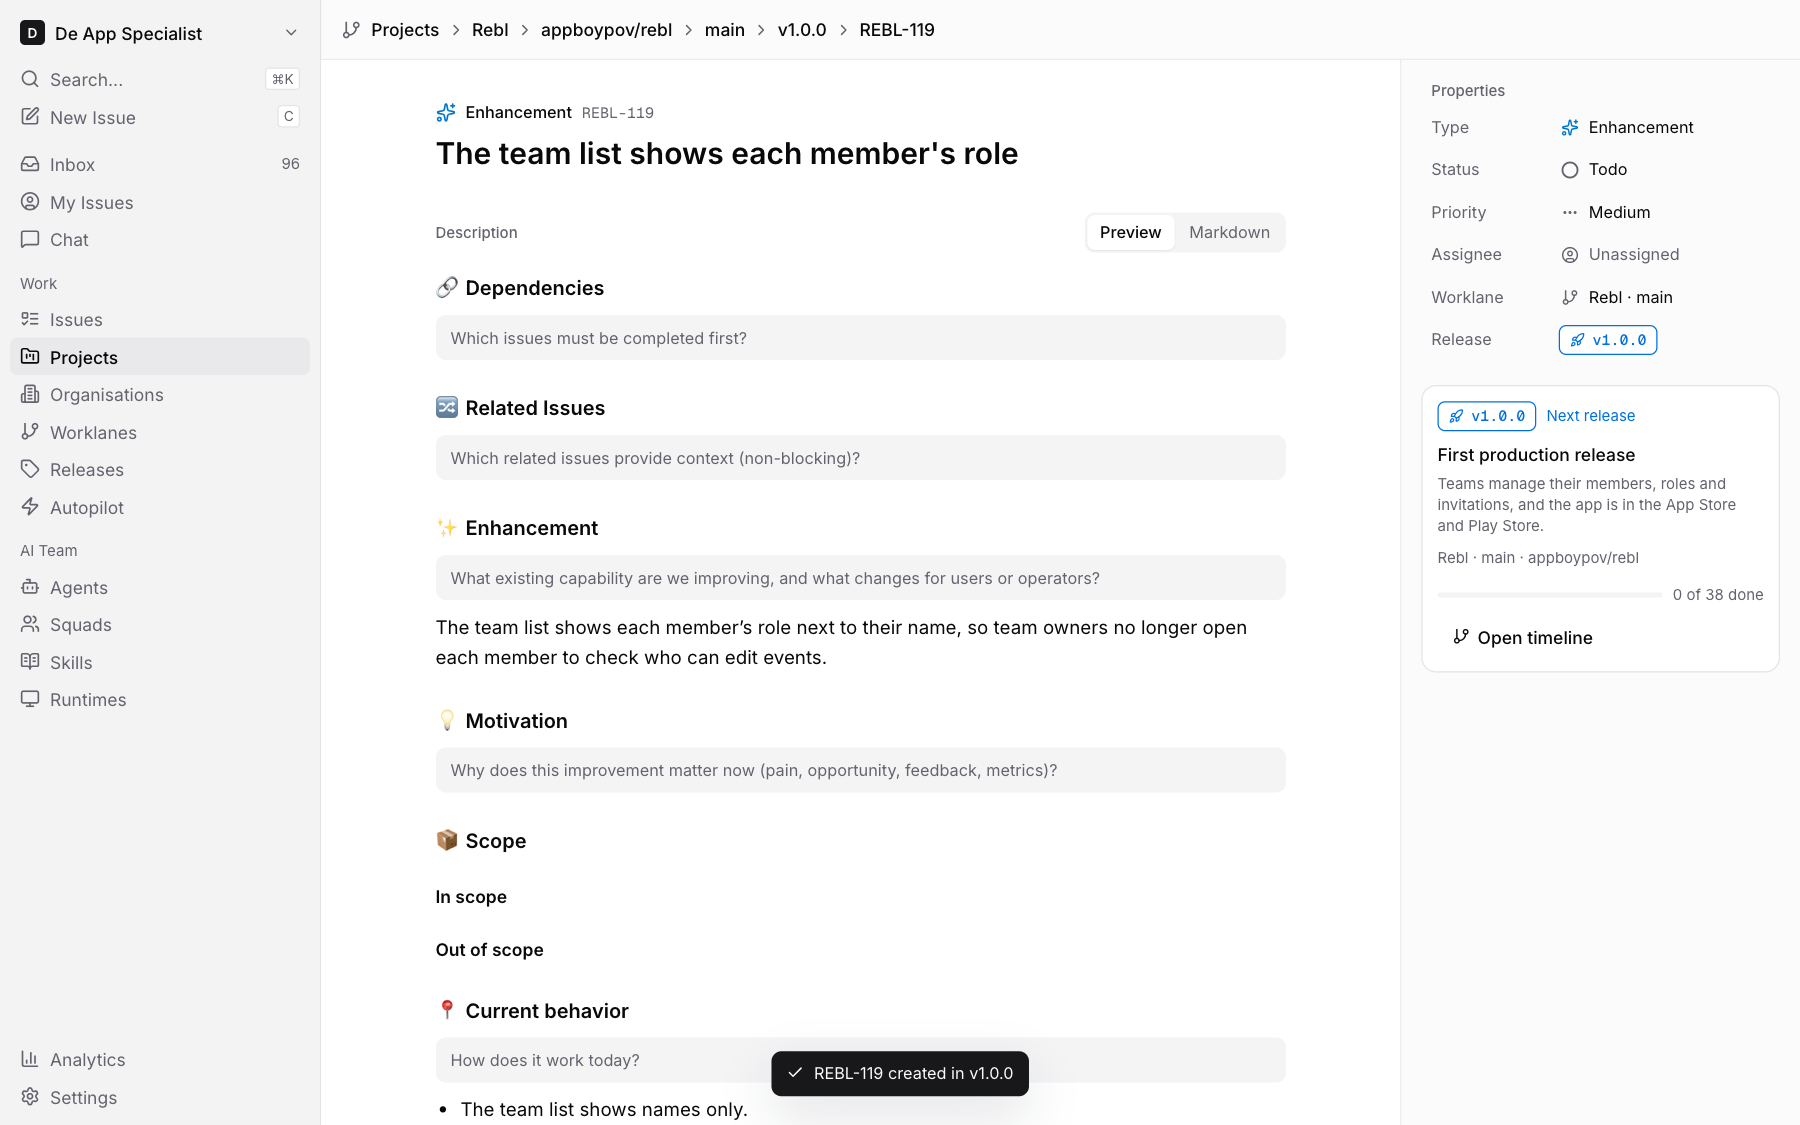
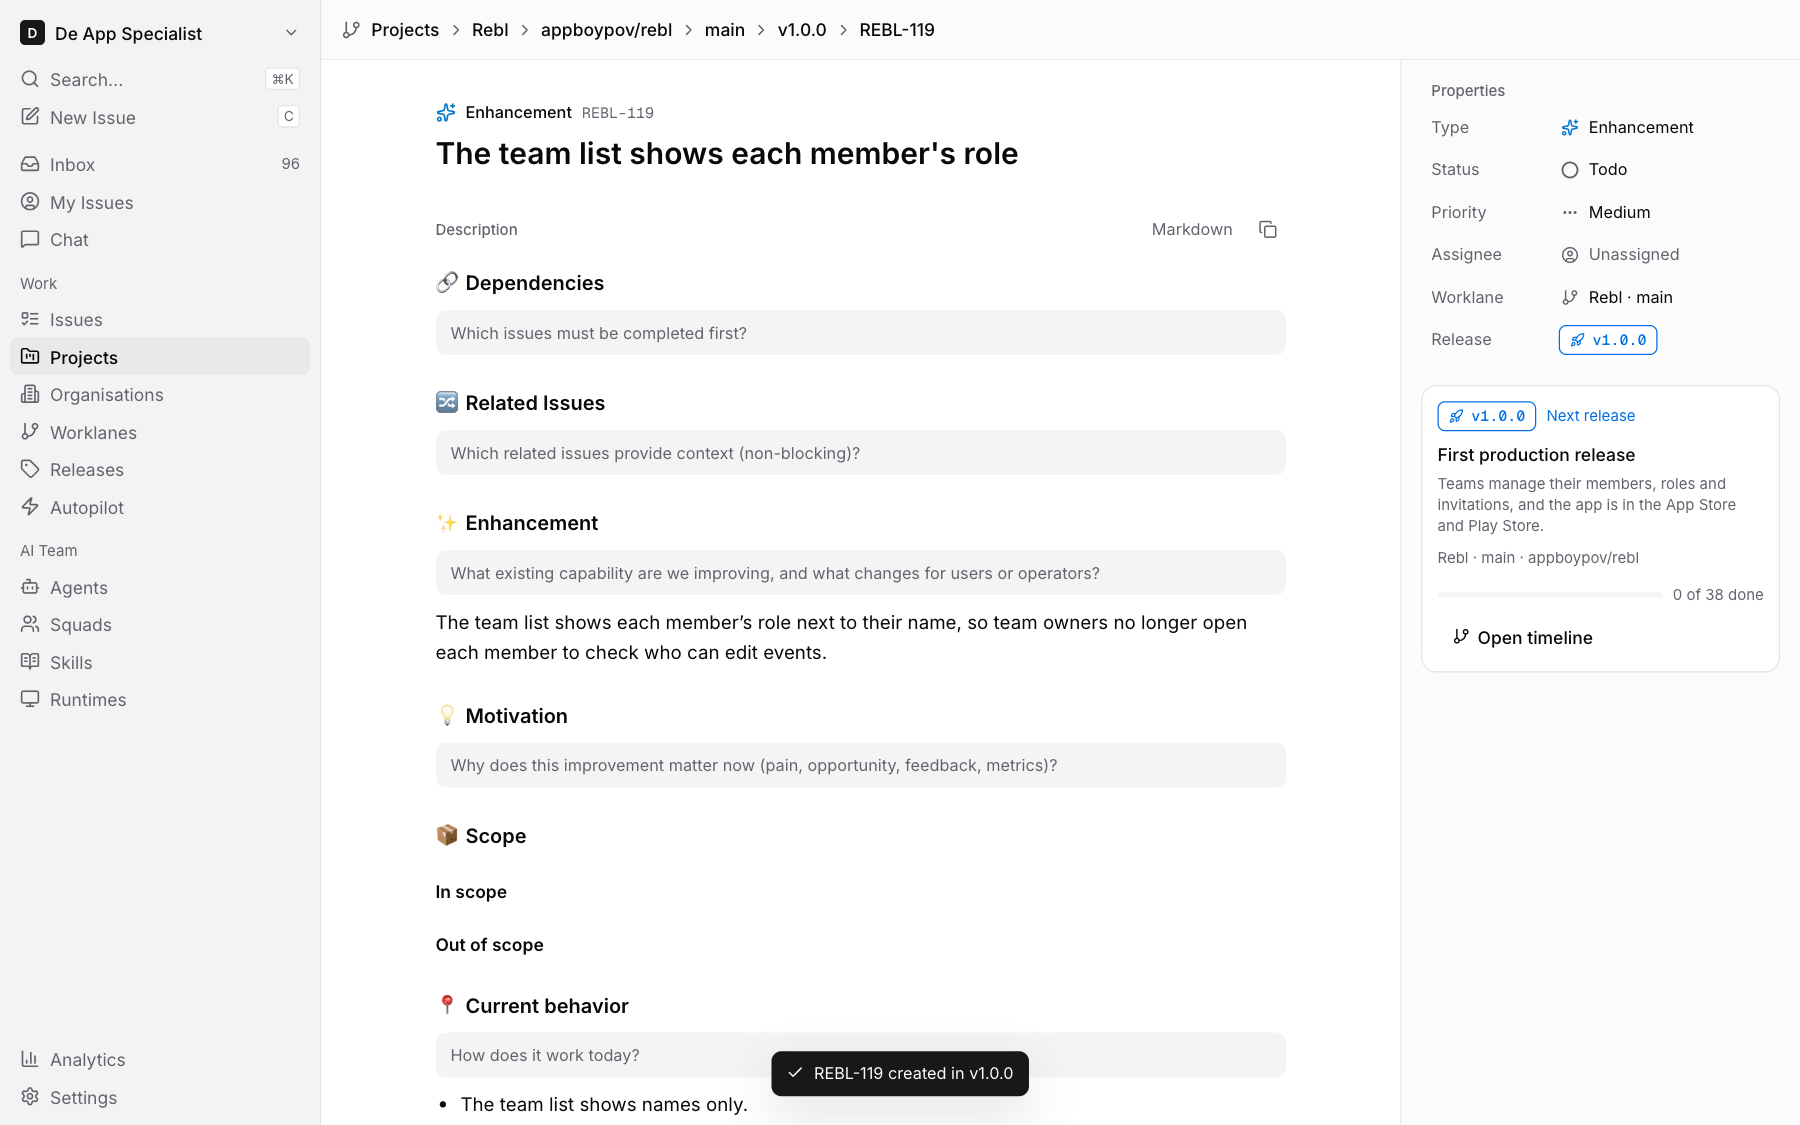
design(issues): Markdown toggle and copy button in New issue design and prototype (WORK-434)
Brings the .pen New issue screen, its export, the hosted MagicPath prototype and its screenshots in line with PR 42: the Fields/Markdown segments become a Markdown toggle with a copy button, the template note is gone, and a hand edit locks the fields.

diff --git a/prototypes/web/README.md b/prototypes/web/README.md
@@ -10,7 +10,7 @@ The sidebar's Worklanes and Releases items, in Work after Organisations, open pa
 
 `created-issues/` shows an issue of every type made from its template on the hosted build: its page (`page-<type>.png`, `page-from-lane.png`), the worklane's Board view and the issue's preview there (`board.png`, `board-peek.png`, `peek-open-page.png`), and the worklane timeline with the issues in their release (`timeline.png`, `timeline-fresh.png`). The New issue dialog's "Fill example" fills a template with a worked example; it exists only in the prototype.
 
-An issue's description is one Markdown field. The templates are the Markdown issue templates in `~/Work/the-archive` (`issue-management/templates/` for epic, story, bug, enhancement, refactor and chore; `linear/templates/` for spike and journey), without the sections that hold implementation details. The New issue fields fill the chosen template's Markdown until it is edited by hand; the issue keeps no separate fields. The dialog and the issue page each have a Markdown toggle that shows the description as editable Markdown, and a button that copies it. `markdown-description/` shows the dialog's fields and Markdown, the issue page's description rendered and as Markdown, and an edit made in the Markdown.
+An issue's description is one Markdown field. The templates are the Markdown issue templates in `~/Work/the-archive` (`issue-management/templates/` for epic, story, bug, enhancement, refactor and chore; `linear/templates/` for spike and journey), without the sections that hold implementation details. The New issue fields fill the chosen template's Markdown until it is edited by hand; a hand edit becomes the description, the fields lock and Create only needs a title. The issue keeps no separate fields. The dialog and the issue page each have a Markdown toggle that shows the description as editable Markdown, and a button that copies it. `markdown-description/` shows the dialog's fields (`1-`), its Markdown (`2-`, `3-`), a hand edit in the Markdown (`4-`) and the locked fields after it (`5-`), the issue page's description rendered and as Markdown (`6-`, `7-`), an epic's checklists (`8-`) and an edit made in the issue page's Markdown (`9-`).
 
 Adding a repository, a worklane and a release follows `designs/creation-flows.md` and screens 6 to 8 of the `.pen` file. Every repository has one worklane `main`, listed first; adding a repository adds it. A repository is picked from what the GitHub App can see and checked out (or cloned) on a runtime; a worklane gets a folder that is unique among its repository's worklanes (worklanes with the same name in different repositories share their folder, one worktree per repository: `~/Worktrees/{project}/{folder}/{repo}`) and a worktree that a runtime makes step by step; a release gets the repository's next version (Patch, Minor or Major, or Custom to set it by hand) and takes issues of the worklane that are in no release yet. `creation-flows/` shows these flows on the hosted build, from `1-add-repository.png` to `12-worklane-board.png`: `5-worklane-folder-taken.png` is a folder already used in `appboypov/rebl`, and the flow goes on in the new `appboypov/rebl-site` up to `12-worklane-board.png`, where the planned issues are ready on the worklane's Board view. The runtime steps, the clone and the GitHub list are simulated in the prototype.
 
